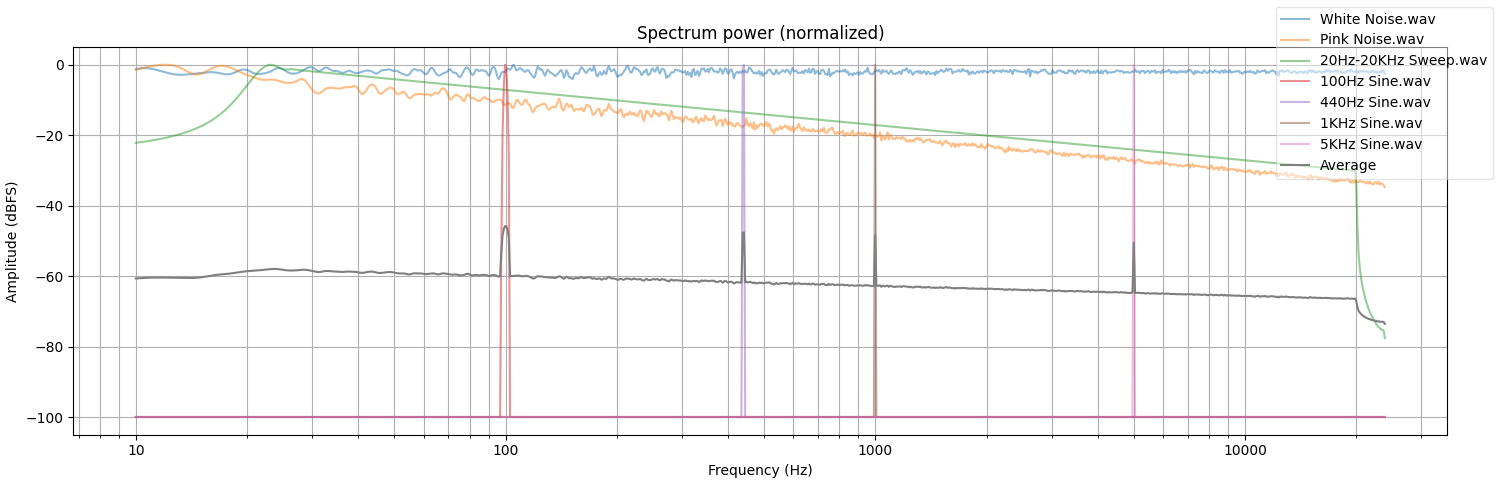
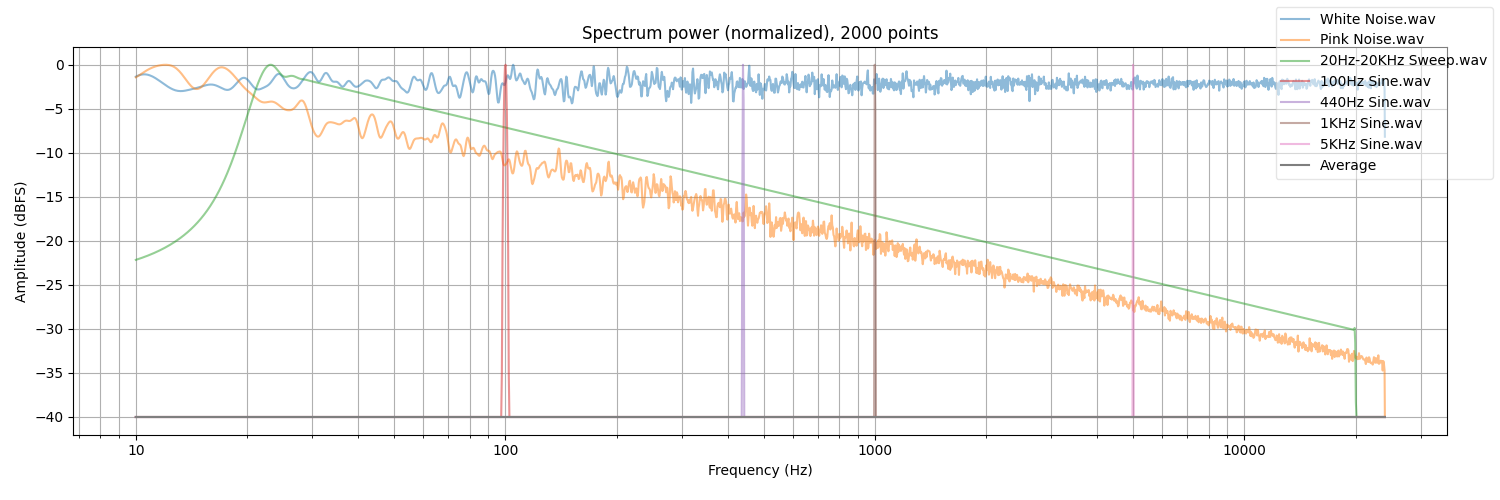
Fix minimum level

diff --git a/main.py b/main.py
@@ -26,16 +26,16 @@ import matplotlib
 import matplotlib.pyplot as plt
 import numpy as np
 
-__version__ = "1.0.0"
+__version__ = "1.1.0"
 
 WAV_FILES_PATHS = [
     "samples/White Noise.wav",
     "samples/Pink Noise.wav",
     "samples/20Hz-20KHz Sweep.wav",
-    #"samples/100Hz Sine.wav",
-    #"samples/440Hz Sine.wav",
-    #"samples/1KHz Sine.wav",
-    #"samples/5KHz Sine.wav"
+    "samples/100Hz Sine.wav",
+    "samples/440Hz Sine.wav",
+    "samples/1KHz Sine.wav",
+    "samples/5KHz Sine.wav"
 ]
 
 #  0  - int8 [b / (2^8 / 2)] (aka Signed 8-bit PCM)
@@ -74,7 +74,7 @@ MIN_FREQUENCY_HZ = 10
 PLOT_MIN_POWER_DBFS = -40
 
 # Number of points of each plot (higher values -> higher resolution, but the readability of the plot is lower)
-POINTS_N = 1000
+POINTS_N = 2000
 
 # -1 - Don't extract any data
 # 0 - Extract average (mean) as calibration profile
@@ -401,7 +401,7 @@ def main() -> None:
     fig.tight_layout(pad=3)
 
     # Initialize plot
-    axs.set_title("Spectrum power" + (" (normalized)" if NORMALIZE_DATA > 0 else ""))
+    axs.set_title("Spectrum power" + (" (normalized)" if NORMALIZE_DATA > 0 else "") + ", {} points".format(POINTS_N))
     axs.grid(True, which="both")
     axs.set(xlabel="Frequency (Hz)", ylabel="Amplitude (dBFS)")
     axs.set_xscale("log", base=10)
@@ -462,7 +462,7 @@ def main() -> None:
         ffts_dbfs_decimated.append(fft_dbfs_decimated)
 
         # Plot data
-        fft_dbfs_plot = fft_dbfs_decimated
+        fft_dbfs_plot = fft_dbfs_decimated.copy()
         fft_dbfs_plot[fft_dbfs_plot < PLOT_MIN_POWER_DBFS] = PLOT_MIN_POWER_DBFS
         axs.plot(fft_freqs_decimated, fft_dbfs_plot, label=os.path.basename(WAV_FILES_PATHS[i]), alpha=0.5)
 
@@ -507,6 +507,8 @@ def main() -> None:
                 file.write("\n")
 
     # Plot average
+    fft_mean_plot = fft_mean_decimated.copy()
+    fft_mean_decimated[fft_mean_decimated < PLOT_MIN_POWER_DBFS] = PLOT_MIN_POWER_DBFS
     axs.plot(fft_freqs_decimated, fft_mean_decimated, label="Average")
 
     # Show plot
